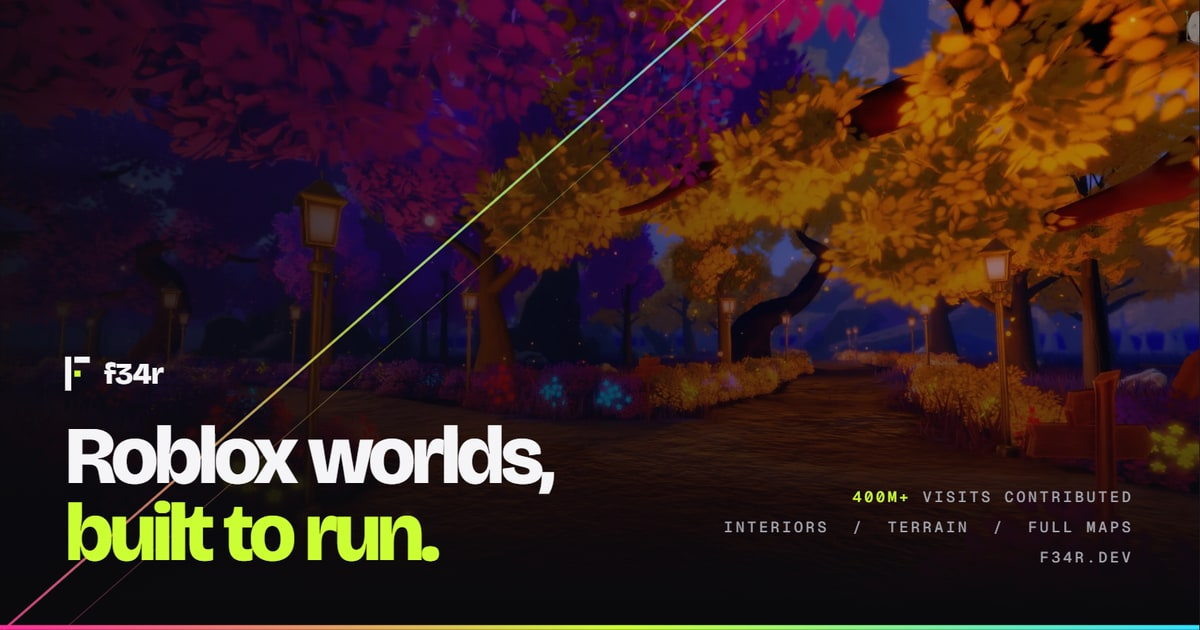
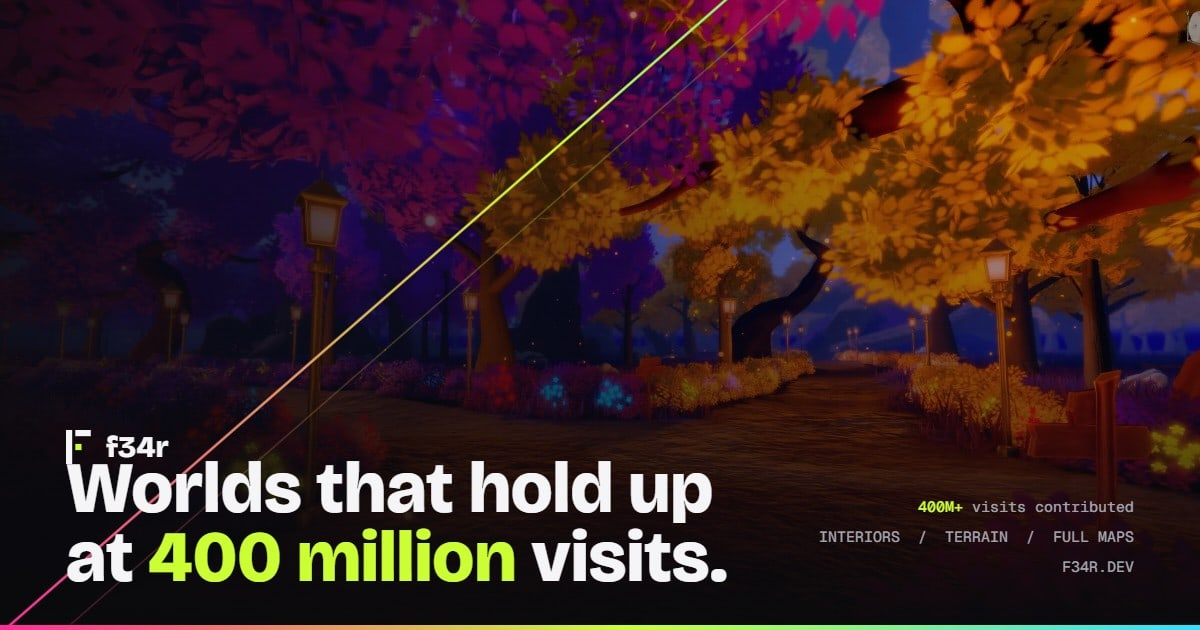
Put the old headline back, and regenerate the share card to match
The hero reads "Worlds that hold up at 400 million visits." again. og:title,
twitter:title, the meta description and the image alt all follow it, or the
share preview would have promised something the page does not say.

The card is rebuilt from _og.html, which now carries the renderer that made it:
a button that draws the card to a canvas at exactly 1200x630 and downloads it.
Screenshotting the div also works, but it is at the mercy of window scaling and
kept coming back cropped; the canvas is exact, and it still uses the real
webfont because the page has already loaded it. Regenerating after a copy change
is now opening the page and clicking once.

?v=3 so the platforms refetch rather than serve the v2 card.

Claude-Session: https://claude.ai/code/session_01FGYMaGAS8UMq537BmXeG9V

diff --git a/_og.html b/_og.html
@@ -32,7 +32,7 @@
     display:flex; align-items:flex-end; justify-content:space-between; gap:40px;
   }
   h1{
-    font-weight:800; font-size:82px; line-height:.94; letter-spacing:-.05em; max-width:13ch;
+    font-weight:800; font-size:72px; line-height:.96; letter-spacing:-.05em; max-width:14ch;
   }
   h1 em{ font-style:normal; color:#ccff33; }
   .mark{ display:flex; align-items:center; gap:14px; margin-bottom:26px; }
@@ -66,7 +66,7 @@
         <svg viewBox="0 0 24 33" fill="none"><rect x="0" y="0" width="6" height="33" fill="#f5f5f7"/><rect x="9" y="0" width="15" height="6" fill="#f5f5f7"/><rect x="9" y="13.5" width="6" height="6" fill="#ccff33"/></svg>
         <b>f34r</b>
       </div>
-      <h1>Roblox worlds,<br /><em>built to run.</em></h1>
+      <h1>Worlds that hold up<br />at <em>400 million</em> visits.</h1>
     </div>
     <div class="meta">
       <span>400M+</span> visits contributed<br />
@@ -76,5 +76,73 @@
   </div>
   <div class="rule"></div>
 </div>
+<button id="render" style="position:fixed;top:16px;left:16px;z-index:9;padding:10px 18px;border-radius:999px;border:0;background:#ccff33;color:#0a0d02;font:600 14px system-ui;cursor:pointer">Download og-cover.jpg</button>
+<script>
+/* The card above is the layout reference. This draws the same thing to a
+   canvas at exactly 1200x630 and downloads it, which is how img/og-cover.jpg
+   is produced. Screenshotting the div works too but is at the mercy of window
+   scaling; this is exact, and it uses the real webfont because the page has
+   already loaded it. */
+document.getElementById("render").addEventListener("click", async () => {
+  await document.fonts.load('800 72px "Bricolage Grotesque"');
+  await document.fonts.load('500 15px "Geist Mono"');
+  const W = 1200, H = 630;
+  const cv = document.createElement("canvas"); cv.width = W; cv.height = H;
+  const x = cv.getContext("2d");
+  const img = document.querySelector("#card img.shot");
+  const s = Math.max(W / img.naturalWidth, H / img.naturalHeight);
+  const dw = img.naturalWidth * s, dh = img.naturalHeight * s;
+  x.drawImage(img, (W - dw) / 2, (H - dh) / 2, dw, dh);
+
+  let g = x.createLinearGradient(0, H, 0, 0);
+  g.addColorStop(0, "#0a0a0d"); g.addColorStop(.46, "rgba(10,10,13,.36)"); g.addColorStop(1, "rgba(10,10,13,.06)");
+  x.fillStyle = g; x.fillRect(0, 0, W, H);
+  g = x.createLinearGradient(0, 0, W, 0);
+  g.addColorStop(0, "rgba(10,10,13,.88)"); g.addColorStop(.52, "rgba(10,10,13,.3)"); g.addColorStop(.82, "rgba(10,10,13,0)");
+  x.fillStyle = g; x.fillRect(0, 0, W, H);
+
+  const bg = x.createLinearGradient(0, H, W, 0);
+  bg.addColorStop(0, "#ff2d9b"); bg.addColorStop(.52, "#ccff33"); bg.addColorStop(1, "#2de1ff");
+  x.strokeStyle = bg; x.lineWidth = 2.5;
+  x.beginPath(); x.moveTo(-30, 660); x.lineTo(760, -30); x.stroke();
+  x.globalAlpha = .4; x.lineWidth = 1;
+  x.beginPath(); x.moveTo(30, 660); x.lineTo(820, -30); x.stroke();
+  x.globalAlpha = 1;
+
+  const mx = 66, my = 430;
+  x.fillStyle = "#f5f5f7";
+  x.fillRect(mx, my, 6.2, 34); x.fillRect(mx + 9.3, my, 15.5, 6.2);
+  x.fillStyle = "#ccff33"; x.fillRect(mx + 9.3, my + 13.9, 6.2, 6.2);
+  x.fillStyle = "#f5f5f7";
+  x.font = '800 30px "Bricolage Grotesque", sans-serif';
+  x.fillText("f34r", mx + 40, my + 27);
+
+  x.font = '800 72px "Bricolage Grotesque", sans-serif';
+  x.fillText("Worlds that hold up", 66, 512);
+  const p = "at "; x.fillText(p, 66, 581);
+  const pw = x.measureText(p).width;
+  x.fillStyle = "#ccff33"; x.fillText("400 million", 66 + pw, 581);
+  const nw = x.measureText("400 million").width;
+  x.fillStyle = "#f5f5f7"; x.fillText(" visits.", 66 + pw + nw, 581);
+
+  x.font = '500 15px "Geist Mono", monospace'; x.textAlign = "right";
+  x.fillStyle = "#ccff33";
+  x.fillText("400M+", 1134 - x.measureText(" visits contributed").width, 512);
+  x.fillStyle = "#a3a3ad";
+  x.fillText(" visits contributed", 1134, 512);
+  x.fillText("INTERIORS  /  TERRAIN  /  FULL MAPS", 1134, 542);
+  x.fillText("F34R.DEV", 1134, 572);
+  x.textAlign = "left";
+
+  const rg = x.createLinearGradient(0, 0, W, 0);
+  rg.addColorStop(0, "#ff2d9b"); rg.addColorStop(.52, "#ccff33"); rg.addColorStop(1, "#2de1ff");
+  x.fillStyle = rg; x.fillRect(0, H - 5, W, 5);
+
+  const a = document.createElement("a");
+  a.download = "og-cover.jpg";
+  a.href = cv.toDataURL("image/jpeg", 0.9);
+  a.click();
+});
+</script>
 </body>
 </html>

diff --git a/index.html b/index.html
@@ -5,27 +5,27 @@
   <meta name="viewport" content="width=device-width,initial-scale=1" />
   <meta name="theme-color" content="#08080a" />
   <meta name="color-scheme" content="dark" />
-  <meta name="description" content="Roblox worlds, built to run. Interiors, terrain and full environments for live games, holding their detail and their frame rate at the same time. 400M+ visits contributed. Available for commissions." />
+  <meta name="description" content="Worlds that hold up at 400 million visits. Interiors, terrain and full environments for live Roblox games, holding their detail and their frame rate at the same time. Available for commissions." />
   <meta name="keywords" content="fear, f34r, Roblox builder, Roblox developer, portfolio, environment design, map building, terrain" />
   <meta name="author" content="f34r" />
 
   <!-- Open Graph (Discord, Facebook, LinkedIn) -->
   <meta property="og:site_name" content="f34r.dev" />
-  <meta property="og:title" content="f34r &mdash; Roblox worlds, built to run" />
+  <meta property="og:title" content="f34r &mdash; Worlds that hold up at 400 million visits" />
   <meta property="og:description" content="Interiors, terrain and full environments for Roblox games. 400M+ visits contributed. Available for commissions." />
   <meta property="og:type" content="website" />
   <meta property="og:url" content="https://f34r.dev/" />
-  <meta property="og:image" content="https://f34r.dev/img/og-cover.jpg?v=2" />
+  <meta property="og:image" content="https://f34r.dev/img/og-cover.jpg?v=3" />
   <meta property="og:image:type" content="image/jpeg" />
   <meta property="og:image:width" content="1200" />
   <meta property="og:image:height" content="630" />
-  <meta property="og:image:alt" content="Roblox worlds, built to run. A stylized night grove built by f34r." />
+  <meta property="og:image:alt" content="Worlds that hold up at 400 million visits. A stylized night grove built by f34r." />
 
   <!-- Twitter / X -->
   <meta name="twitter:card" content="summary_large_image" />
-  <meta name="twitter:title" content="f34r &mdash; Roblox worlds, built to run" />
+  <meta name="twitter:title" content="f34r &mdash; Worlds that hold up at 400 million visits" />
   <meta name="twitter:description" content="Interiors, terrain and full environments for Roblox games. 400M+ visits contributed. Available for commissions." />
-  <meta name="twitter:image" content="https://f34r.dev/img/og-cover.jpg?v=2" />
+  <meta name="twitter:image" content="https://f34r.dev/img/og-cover.jpg?v=3" />
 
   <link rel="canonical" href="https://f34r.dev/" />
   <title>f34r &mdash; Roblox environment and map builder</title>
@@ -132,7 +132,7 @@
   </svg>
   <div class="hero-in">
     <div class="rv in" id="heroCopy">
-      <h1><span class="ln"><span>Roblox worlds,</span></span><span class="ln"><span><em>built to run.</em></span></span></h1>
+      <h1><span class="ln"><span>Worlds that hold up</span></span><span class="ln"><span>at <em>400 million</em></span></span><span class="ln"><span>visits.</span></span></h1>
       <span class="hero-dim" aria-hidden="true"><i></i><b>SINCE 2021</b><i></i></span>
       <p class="hero-sub">Interiors, terrain and full environments, built to hold their detail and their frame rate at the same time.</p>
       <div class="hero-ctas">
